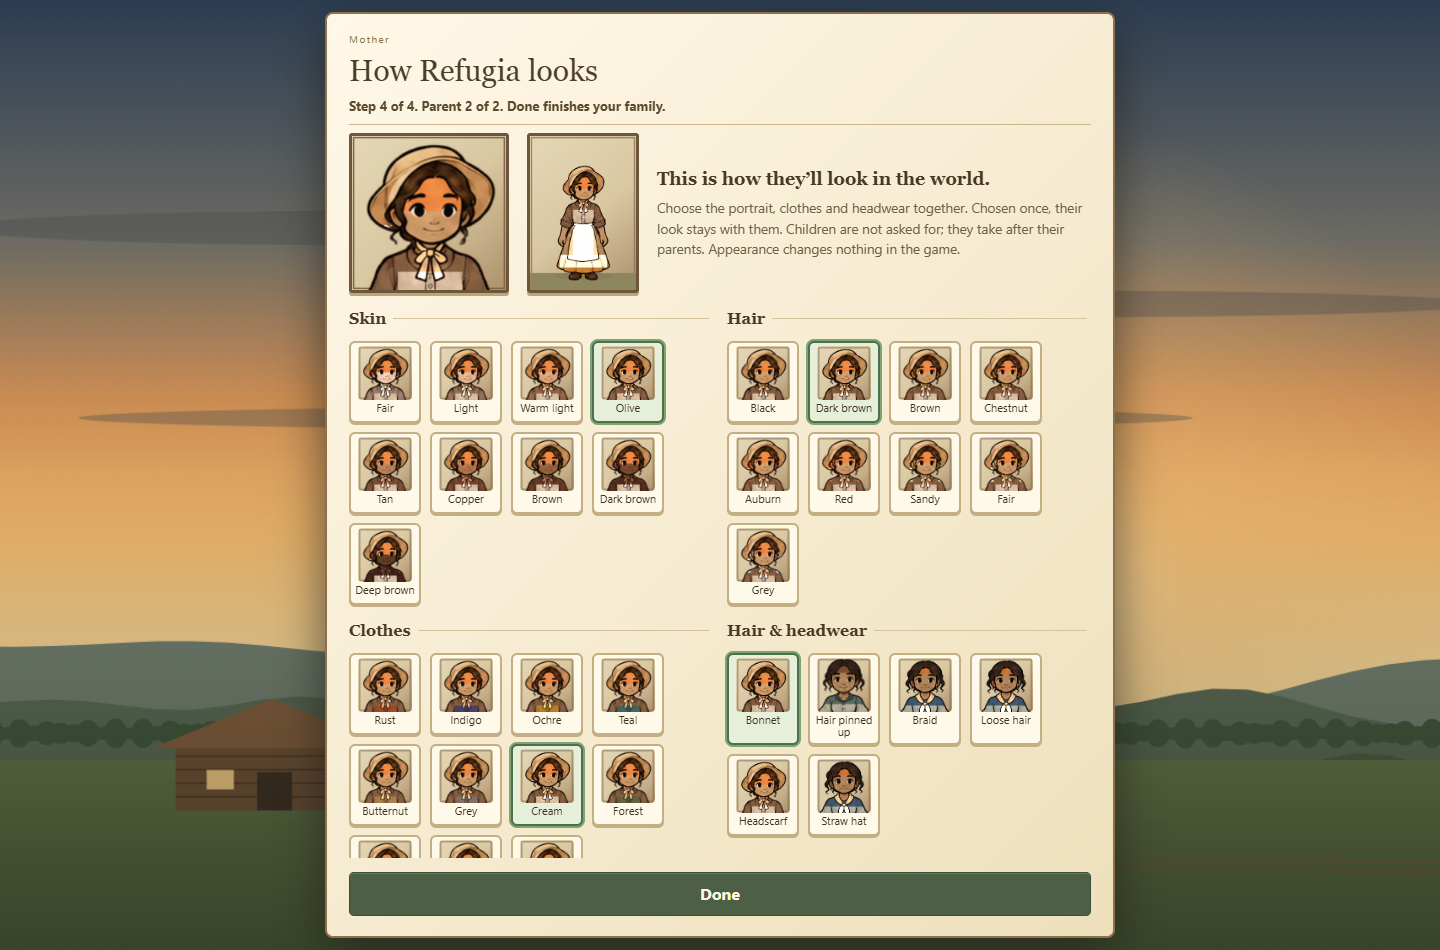
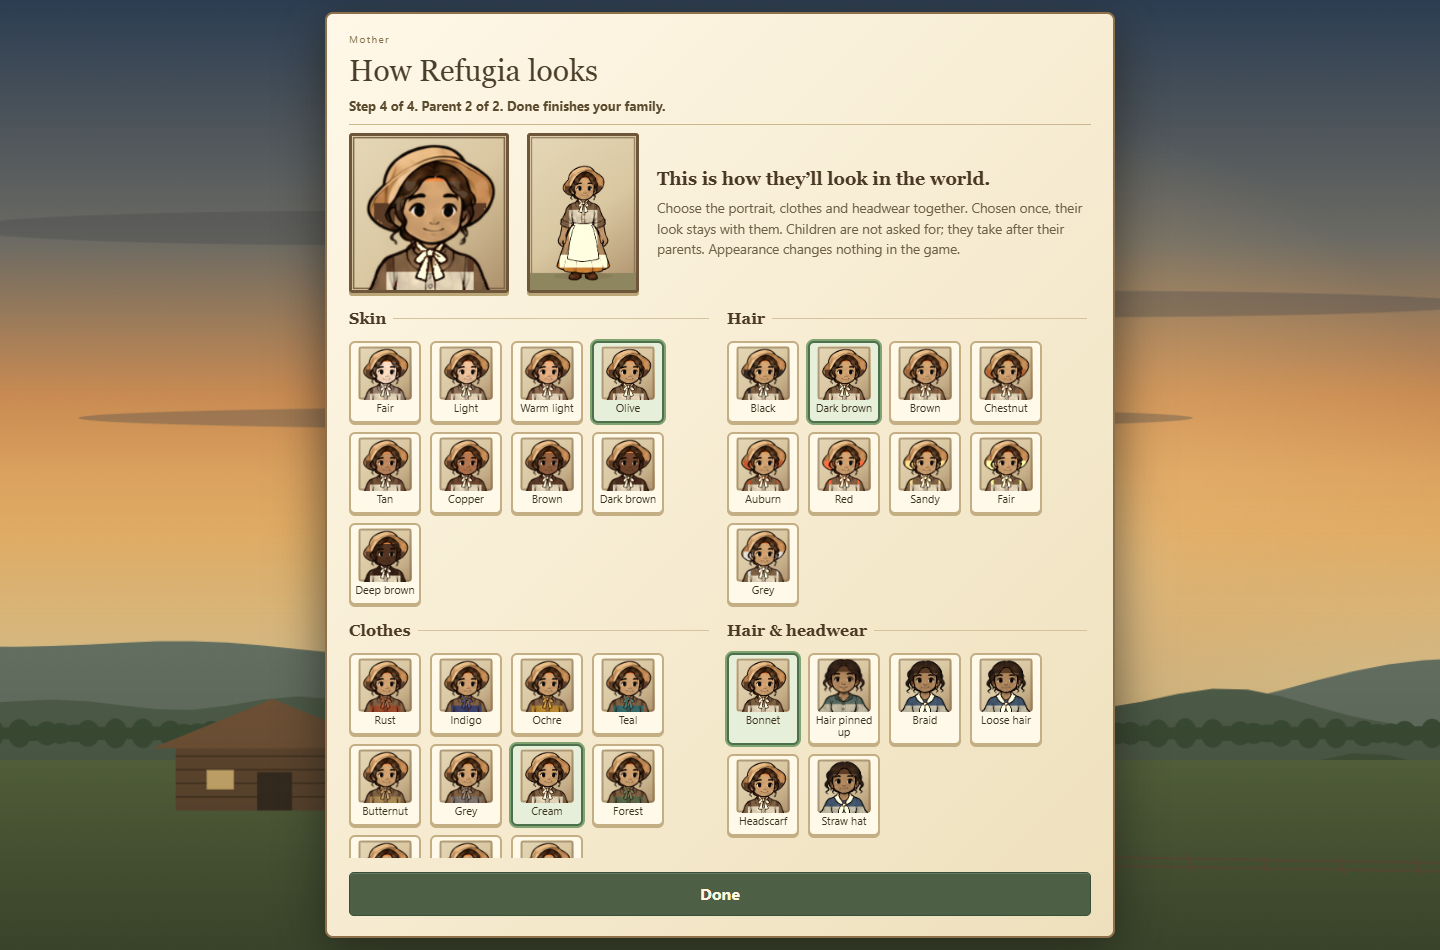
Remove two-tone seams from character recolouring

diff --git a/public/person-palette.js b/public/person-palette.js
@@ -35,27 +35,30 @@ export function recolourPersonFrame(imageData, frameName, appearance) {
     // Ink, edge antialiasing, bright apron and white shirt stay painted as authored.
     if (brightness < 38 || Math.min(r, g, b) > 174 && Math.max(r, g, b) - Math.min(r, g, b) < 38) continue;
     const x = (index / 4 % width) / width, y = Math.floor(index / 4 / width) / height;
-    const face = y > (hatted ? .205 : .12) && y < .385 && x > .29 && x < .72;
-    const hands = y > .36 && y < .77 && (x < .31 || x > .69);
-    const warmPigment = r > g * 1.08 && g > b * 1.13 && brightness > 54;
+    // The face extends up under the brim. A y-only cut left its forehead in the
+    // original pigment, producing the conspicuous two-tone skin in the chooser.
+    const face = y > .115 && y < .385 && x > .29 && x < .72;
+    const hands = y > .36 && y < .77 && (x < .245 || x > .755);
+    const skinPigment = r > g * (variant === 'elder' ? 1.3 : 1.37)
+      && g > b * 1.24 && brightness > 48;
     let part = null;
-    if ((face || hands) && warmPigment) part = 'skin';
+    if ((face || hands) && skinPigment) part = 'skin';
     else if (y < .385 && y > (hatted ? .18 : .015) && x > .17 && x < .83
-      && brightness < (variant === 'elder' ? 207 : 118)
+      && brightness < (variant === 'elder' ? 207 : 162)
       && (!hatted || y > .245 || x < .34 || x > .66)) {
       // Leave eyes, black outline and hat bands intact. The source sheet supplies the
       // actual hairstyle; this palette pass only dyes its interior strands.
       if (variant === 'elder' ? Math.max(r, g, b) - Math.min(r, g, b) < 45 : r >= g && g >= b * .8) part = 'hair';
     } else if (y > .245 && y < .88 && x > .07 && x < .93) {
       const nearWhite = Math.min(r, g, b) > 115 && Math.max(r, g, b) - Math.min(r, g, b) < 39;
-      const skinLikely = warmPigment && hands && x < .25 || warmPigment && hands && x > .75;
+      const skinLikely = skinPigment && hands;
       if (!nearWhite && !skinLikely && brightness > 42) part = 'clothing';
     }
     if (!part) continue;
     const original = source[part], desired = target[part];
     // Preserve the painted light/dark value and a little of each original brush mark.
-    const ratio = Math.max(.28, Math.min(1.9, brightness / light(...original)));
-    const strength = part === 'clothing' && isWoman ? .82 : .86;
+    const ratio = Math.max(.44, Math.min(part === 'clothing' ? 1.22 : 1.48, brightness / light(...original)));
+    const strength = part === 'clothing' && isWoman ? .96 : .97;
     for (let c = 0; c < 3; c++) data[index + c] = clamp((1 - strength) * data[index + c] + strength * desired[c] * ratio);
   }
   return imageData;

diff --git a/HANDOFF.md b/HANDOFF.md
@@ -4286,3 +4286,9 @@ path correction. Visual result: `docs/evidence/looks-popup.png` and `docs/eviden
 **Remaining art:** exact moustache, straw hat, braid, loose hair and headscarf silhouettes, plus cleaner semantic paint
 masks and bespoke seated/combat layers. The current cast supplies the closest matching silhouette for those choices;
 see `docs/ART_REQUESTS.md`. Do not return to code-drawn flat figures for this feature.
+
+**Two-tone correction, 2026-09-26.** The first palette pass cut across the forehead of a hatted figure, leaving the
+sprite's original skin above the chosen skin colour. `public/person-palette.js` now recolours skin across the whole face
+by its source pigment while leaving the hat intact; the blouse/skirt tint uses a narrower lightness range so neither
+part blows out to a different-looking colour. `tests/person-palette.test.mjs` checks the forehead/cheek seam and
+clothing hue; `npm run test:looks` passed nine checks with updated father and mother screenshots in `docs/evidence/`.
